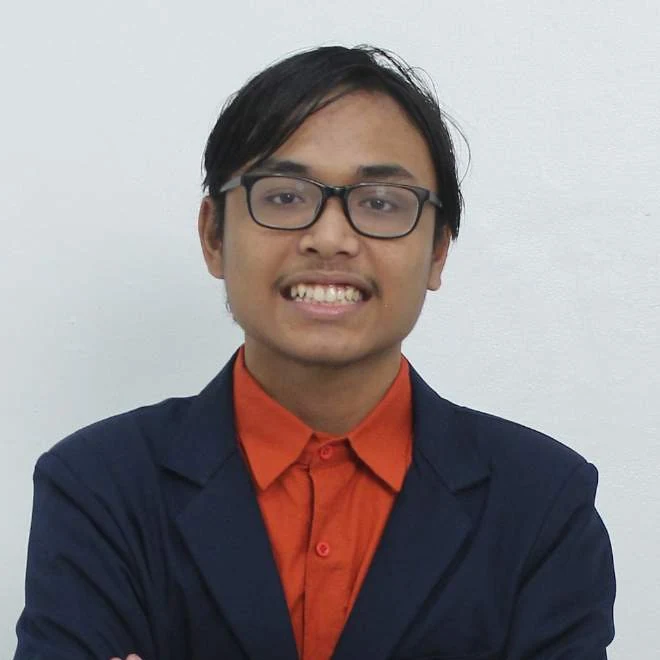
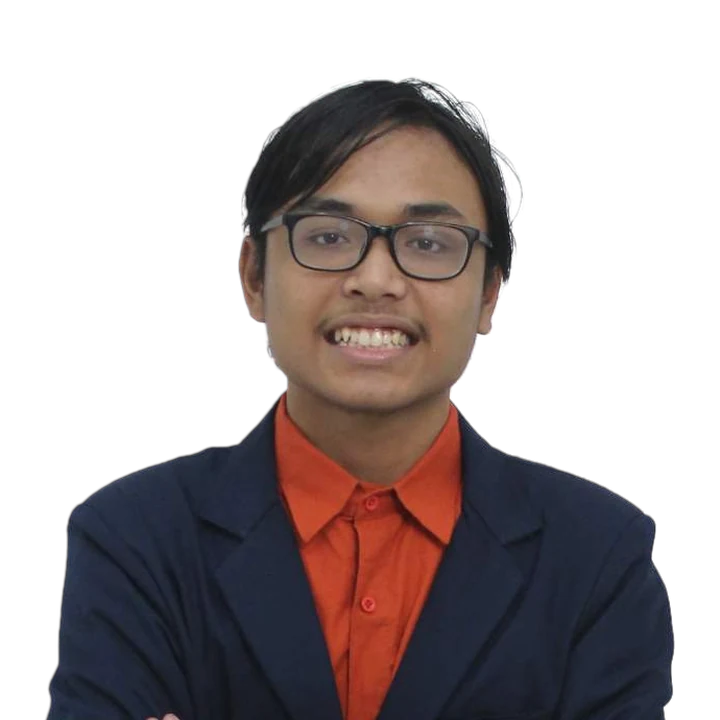
Fixed profile photo

diff --git a/css/styles.css b/css/styles.css
@@ -292,7 +292,32 @@ button.tech-item[aria-pressed="true"] .tech-name { color: var(--accent-soft); }
   box-shadow: 0 0 0 10px rgba(74, 144, 226, 0.06), 0 0 60px -10px rgba(74, 144, 226, 0.55);
 }
 .photo img { width: 100%; height: 100%; object-fit: cover; }
-.photo.has-img { background: #e9ecef; }
+/* real photo: background removed, head rises out of the circle, chest fades into the page */
+.photo.has-img {
+  width: min(19rem, 100%); aspect-ratio: 1;
+  border-radius: 0; overflow: visible; background: none; border: 0; box-shadow: none;
+  display: block; isolation: isolate;
+}
+.photo.has-img::before {
+  content: ""; position: absolute; z-index: -1;
+  left: 4%; right: 4%; bottom: 3%; aspect-ratio: 1;
+  border-radius: 50%;
+  background: radial-gradient(circle at 50% 38%, rgba(74, 144, 226, 0.34), rgba(25, 27, 31, 0.92) 72%);
+  border: 1px solid rgba(139, 180, 255, 0.3);
+  box-shadow: 0 0 0 10px rgba(74, 144, 226, 0.05), 0 0 70px -12px rgba(74, 144, 226, 0.6);
+}
+.photo.has-img::after {
+  content: ""; position: absolute; left: 8%; right: 8%; bottom: 3%; height: 2px;
+  border-radius: 2px;
+  background: linear-gradient(90deg, transparent, var(--accent), transparent);
+  box-shadow: 0 0 14px 1px rgba(74, 144, 226, 0.7);
+}
+.photo.has-img img {
+  position: relative; display: block; width: 100%; height: auto;
+  object-fit: contain;
+  -webkit-mask-image: linear-gradient(to bottom, #000 70%, transparent 97%);
+  mask-image: linear-gradient(to bottom, #000 70%, transparent 97%);
+}
 .photo-initials { font-weight: 800; font-size: clamp(3rem, 7vw, 4.25rem); color: var(--accent-soft); letter-spacing: 0.02em; }
 .photo-note { margin-top: var(--s2); font-size: 0.8rem; color: var(--muted); }
 .profile-name { margin-top: var(--s5); font-weight: 800; font-size: 1.45rem; line-height: 1.25; }
@@ -316,6 +341,7 @@ button.tech-item[aria-pressed="true"] .tech-name { color: var(--accent-soft); }
   .hero-title { text-align: center; }
   .hero-grid { grid-template-columns: minmax(0, 1fr); }
   .photo { width: min(13rem, 70%); }
+  .photo.has-img { width: min(17rem, 82%); }
 }
 
 /* ---------------------------------------------------------------------

diff --git a/js/main.js b/js/main.js
@@ -138,7 +138,7 @@ function renderProfile(el, [profile, contact]) {
 
   const photo = h("div", { class: profile.FOTO ? "photo has-img" : "photo" });
   if (profile.FOTO) {
-    photo.append(h("img", { src: profile.FOTO, alt: profile.FOTO_ALT || profile.NAMA, width: 660, height: 660, fetchpriority: "high", decoding: "async" }));
+    photo.append(h("img", { src: profile.FOTO, alt: profile.FOTO_ALT || profile.NAMA, width: 720, height: 720, fetchpriority: "high", decoding: "async" }));
   } else {
     photo.append(h("span", { class: "photo-initials", "aria-hidden": "true", text: profile.INISIAL || "" }));
   }
